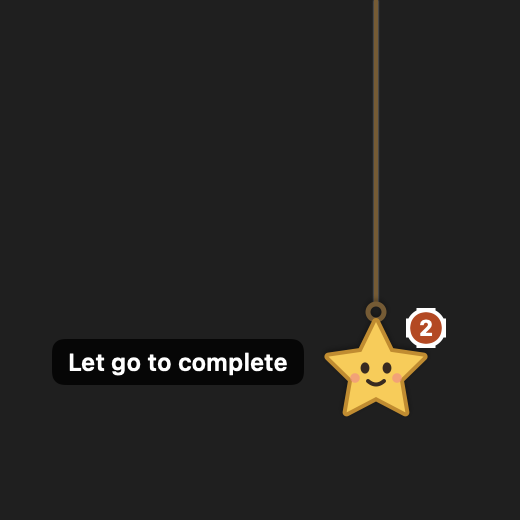
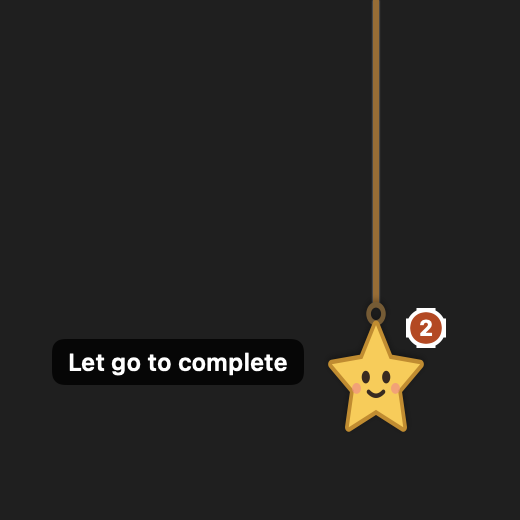
Dramatic pull: resisting rope, strain and tremble, snap-back and anime flash
The rope resists the pull (character stretches, rope thickens, trembles
past the complete point), snaps back past rest on release, and a
successful pull fires a gold (complete) or blue (snooze) flash burst.
Thresholds unchanged; off with Keep still / Reduce motion.

Changed region(s): [[0.6154, 0.0, 0.8308, 0.8308]]

diff --git a/Sources/App/PipView.swift b/Sources/App/PipView.swift
@@ -23,6 +23,8 @@ final class PipUI: ObservableObject {
     @Published var armed: PullAction?
     /// True while an attention animation plays (the window makes room for it).
     @Published var swinging = false
+    /// True briefly after a release, while the rope snaps back and the flash plays.
+    @Published var settling = false
 }
 
 struct PipView: View {
@@ -32,6 +34,9 @@ struct PipView: View {
     @State private var pinned: UUID?
     @State private var drop: CGFloat = 0
     @State private var scale: CGFloat = 1
+    @State private var jitter: CGFloat = 0
+    @State private var flash: (complete: Bool, progress: Double)?
+    @State private var flashLit = false
     @State private var startY: CGFloat = 0
     /// Resets on end *and* on cancel (onEnded isn't called when macOS cancels a drag).
     @GestureState private var pressing = false
@@ -39,6 +44,8 @@ struct PipView: View {
     private var settings: Settings { model.reminders.settings }
     private var current: Reminder? { model.current }
     private var alignment: HorizontalAlignment { settings.side == .right ? .trailing : .leading }
+    /// 0 (slack) … 1 (as taut as it gets).
+    private var tension: Double { Double(ui.stretch) / maxStretch }
     private var reduceMotion: Bool { settings.pauseAnimation || NSWorkspace.shared.accessibilityDisplayShouldReduceMotion }
 
     var body: some View {
@@ -58,10 +65,21 @@ struct PipView: View {
 
     private var hanging: some View {
         VStack(spacing: -3) {
-            Rectangle().fill(Color(red: 0.48, green: 0.35, blue: 0.18)).frame(width: 2, height: PipLayout.rope + ui.stretch + drop)
+            Rectangle().fill(tension > 0.5 ? Color(red: 0.62, green: 0.42, blue: 0.16) : Color(red: 0.48, green: 0.35, blue: 0.18))
+                .frame(width: 2 + 2 * tension, height: PipLayout.rope + ui.stretch + drop)
                 .shadow(color: .white.opacity(0.6), radius: 0.5)
             AvatarView(avatar: Avatar.find(settings.avatar)).frame(width: PipLayout.pip, height: PipLayout.pip)
                 .scaleEffect(scale, anchor: .top)
+                // Strain: stretched tall and thin by the pull, trembling once it's ready to complete.
+                .scaleEffect(x: 1 - 0.1 * tension, y: 1 + 0.18 * tension, anchor: .top)
+                .offset(x: jitter)
+                .brightness(flashLit ? 0.55 : 0)
+                .overlay {
+                    if let flash {
+                        FlashBurst(progress: flash.progress, complete: flash.complete)
+                            .frame(width: PipLayout.pip + 2 * PipLayout.swingRoom - 4, height: PipLayout.pip + 2 * PipLayout.swingRoom - 4)
+                    }
+                }
                 // Overlays don't change layout, so Pip never shifts while the label shows.
                 .overlay(alignment: .topTrailing) {
                     if !model.due.isEmpty {
@@ -108,20 +126,51 @@ struct PipView: View {
                 let dy = Double(startY - NSEvent.mouseLocation.y) // screen y grows upward
                 ui.stretch = CGFloat(visualStretch(dy))
                 ui.armed = classifyPull(dy)
+                jitter = ui.armed == .complete && !reduceMotion ? CGFloat.random(in: -2.5...2.5) : 0
             }
             .onEnded { _ in
                 let dy = Double(startY - NSEvent.mouseLocation.y)
-                defer { cancelDrag() }
+                defer { cancelDrag(snap: true) }
                 guard ui.dragging, let id = pinned, id == current?.id, let action = classifyPull(dy) else { return }
-                _ = action == .complete ? model.complete(id) : model.snooze(id)
+                let failed = (action == .complete ? model.complete(id) : model.snooze(id)) != nil
+                if !failed { burst(complete: action == .complete) } // only celebrate what was actually saved
             }
     }
 
-    private func cancelDrag() {
-        withAnimation(reduceMotion ? nil : .spring(response: 0.3, dampingFraction: 0.6)) { ui.stretch = 0 }
+    /// `snap`: a released rope whips back past its rest point and wobbles (a cancel just eases back).
+    private func cancelDrag(snap: Bool = false) {
+        let wasStretched = ui.stretch > 0
+        if snap && wasStretched && !reduceMotion { settle(for: 0.8) }
+        withAnimation(reduceMotion ? nil : snap ? .spring(response: 0.32, dampingFraction: 0.42) : .spring(response: 0.3, dampingFraction: 0.7)) {
+            ui.stretch = 0
+        }
         ui.dragging = false
         ui.armed = nil
         pinned = nil
+        jitter = 0
+    }
+
+    /// Keeps the window large while the snap-back and flash play, so nothing is clipped.
+    private func settle(for seconds: Double) {
+        ui.settling = true
+        Task { @MainActor in
+            try? await Task.sleep(nanoseconds: UInt64(seconds * 1_000_000_000))
+            ui.settling = false
+        }
+    }
+
+    /// The anime "flash" on a successful pull: the character lights up and a burst shoots out.
+    private func burst(complete: Bool) {
+        guard !reduceMotion else { return }
+        settle(for: 0.8)
+        flash = (complete, 0)
+        flashLit = true
+        withAnimation(.easeOut(duration: 0.12)) { flashLit = false }
+        withAnimation(.easeOut(duration: complete ? 0.55 : 0.4)) { flash = (complete, 1) }
+        Task { @MainActor in
+            try? await Task.sleep(nanoseconds: 600_000_000)
+            flash = nil
+        }
     }
 
     /// Grabs attention when a reminder becomes due: a drop-and-bounce, a big swing, then a short

diff --git a/Sources/App/Effects.swift b/Sources/App/Effects.swift
@@ -1,0 +1,51 @@
+import SwiftUI
+
+/// Anime-style impact flash: a bright core, a shock ring and speed lines bursting outward.
+/// `progress` runs 0 → 1; gold for complete, sky blue for snooze.
+struct FlashBurst: View, Animatable {
+    var progress: Double
+    let complete: Bool
+
+    var animatableData: Double {
+        get { progress }
+        set { progress = newValue }
+    }
+
+    var body: some View {
+        Canvas { ctx, size in draw(&ctx, size) }
+            .allowsHitTesting(false)
+            .accessibilityHidden(true)
+    }
+
+    private func draw(_ ctx: inout GraphicsContext, _ size: CGSize) {
+        let c = CGPoint(x: size.width / 2, y: size.height / 2)
+        let p = progress
+        let fade = max(0, 1 - p)
+        let tint = complete ? Color(red: 1, green: 0.82, blue: 0.2) : Color(red: 0.35, green: 0.75, blue: 1)
+        let reach = min(size.width, size.height) / 2
+
+        // White-hot core that blooms then fades fast.
+        let core: CGFloat = reach * CGFloat(0.25 + 0.55 * p)
+        let glow = Gradient(colors: [Color.white.opacity(fade), tint.opacity(0.7 * fade), Color.clear])
+        let coreRect = CGRect(x: c.x - core, y: c.y - core, width: core * 2, height: core * 2)
+        ctx.fill(Path(ellipseIn: coreRect), with: .radialGradient(glow, center: c, startRadius: 0, endRadius: core))
+        // Shock ring.
+        let ring: CGFloat = reach * CGFloat(0.3 + 0.7 * p)
+        let ringRect = CGRect(x: c.x - ring, y: c.y - ring, width: ring * 2, height: ring * 2)
+        ctx.stroke(Path(ellipseIn: ringRect), with: .color(tint.opacity(0.9 * fade)), lineWidth: CGFloat(4 * fade + 1))
+        // Speed lines, alternating long and short, shooting outward.
+        let count = complete ? 16 : 10
+        for i in 0..<count {
+            let a = CGFloat(Double(i) / Double(count) * 2 * .pi + 0.2)
+            let long = i.isMultiple(of: 2)
+            let inner: CGFloat = reach * CGFloat(0.35 + 0.55 * p)
+            let length: CGFloat = reach * (long ? 0.5 : 0.3) * CGFloat(1 - p * 0.5)
+            let outer: CGFloat = min(inner + length, reach)
+            var line = Path()
+            line.move(to: CGPoint(x: c.x + cos(a) * inner, y: c.y + sin(a) * inner))
+            line.addLine(to: CGPoint(x: c.x + cos(a) * outer, y: c.y + sin(a) * outer))
+            let color: Color = long ? .white : tint
+            ctx.stroke(line, with: .color(color.opacity(fade)), style: StrokeStyle(lineWidth: long ? 3 : 2, lineCap: .round))
+        }
+    }
+}

diff --git a/Sources/App/PipWindow.swift b/Sources/App/PipWindow.swift
@@ -38,9 +38,9 @@ final class PipWindowController {
         let visible = model.hasAnything || model.status != nil || model.problem != nil
         guard visible, let screen = NSScreen.screens.first else { panel.orderOut(nil); return }
         let panelShown = (model.current != nil && !ui.collapsed) || model.status != nil || model.problem != nil
-        let width = panelShown || ui.dragging ? PipLayout.panelWidth : PipLayout.pip + 2 * PipLayout.swingRoom // room for the "Let go to…" label and swings
+        let width = panelShown || ui.dragging || ui.settling ? PipLayout.panelWidth : PipLayout.pip + 2 * PipLayout.swingRoom // room for the "Let go to…" label and swings
         // While dragging, reserve the full stretch so the window doesn't resize under the pointer.
-        let stretch = ui.dragging ? CGFloat(maxStretch) : ui.stretch
+        let stretch = ui.dragging || ui.settling ? CGFloat(maxStretch) : ui.stretch
         let height = PipLayout.rope + stretch + PipLayout.pip + (panelShown ? PipLayout.panelHeight : 0) + 24 + (ui.swinging ? PipLayout.bounce + 16 : 0)
         let area = screen.visibleFrame // just below the menu bar
         let x = model.reminders.settings.side == .right ? area.maxX - width - PipLayout.margin : area.minX + PipLayout.margin

diff --git a/Sources/Core/Reminders.swift b/Sources/Core/Reminders.swift
@@ -6,7 +6,7 @@ import Foundation
 public let snoozeThreshold: Double = 24
 /// Downward drag needed to complete on release.
 public let completeThreshold: Double = 120
-/// The rope stretches visually up to here; classification uses the real distance.
+/// The rope can stretch visually up to here; classification uses the real distance.
 public let maxStretch: Double = 180
 
 public enum PullAction: Equatable { case snooze, complete }
@@ -18,7 +18,12 @@ public func classifyPull(_ dy: Double) -> PullAction? {
     return nil
 }
 
-public func visualStretch(_ dy: Double) -> Double { min(maxStretch, max(0, dy.isNaN ? 0 : dy)) }
+/// How far the rope visibly stretches for a pull of `dy`: it resists more the further you pull,
+/// so the character lags behind the pointer like a taut spring (never reaching `maxStretch`).
+public func visualStretch(_ dy: Double) -> Double {
+    guard dy > 0 else { return 0 } // also NaN
+    return maxStretch * (1 - exp(-dy / 150))
+}
 
 // MARK: - Model
 

diff --git a/Sources/App/Snapshots.swift b/Sources/App/Snapshots.swift
@@ -50,6 +50,16 @@ enum Snapshots {
                 }
             }
             render(lineup, "lineup", CGSize(width: 600, height: 130), dark: dark)
+            let flashes = HStack(spacing: 24) {
+                ForEach([true, false], id: \.self) { complete in
+                    ZStack {
+                        AvatarView(avatar: Avatar.find(complete ? "pip" : "cat")).frame(width: 64, height: 64).brightness(0.25)
+                        FlashBurst(progress: 0.3, complete: complete).frame(width: 140, height: 140)
+                    }
+                    .frame(width: 140, height: 140)
+                }
+            }
+            render(flashes, "flash", CGSize(width: 330, height: 150), dark: dark)
         }
         try? FileManager.default.removeItem(at: file.url)
     }

diff --git a/Checks/main.swift b/Checks/main.swift
@@ -20,7 +20,9 @@ check(classifyPull(119.9) == .snooze, "119.9 snoozes")
 check(classifyPull(120) == .complete, "120 completes")
 check(classifyPull(-40) == nil, "upward drag cancels")
 check(classifyPull(.nan) == nil, "NaN cancels")
-check(visualStretch(500) == maxStretch && visualStretch(-5) == 0, "stretch clamps")
+check(visualStretch(-5) == 0 && visualStretch(.nan) == 0 && visualStretch(0) == 0, "no stretch for upward/none")
+check(visualStretch(500) < maxStretch && visualStretch(10_000) <= maxStretch, "stretch never exceeds the maximum")
+check(visualStretch(60) < visualStretch(120) && visualStretch(120) < 120, "rope resists: grows, but less than the pointer")
 
 // Creation validation
 var r = Reminders()

diff --git a/docs/ACCEPTANCE.md b/docs/ACCEPTANCE.md
@@ -29,7 +29,9 @@ Recorded 6 November 2026 on macOS 15.7.9 (Apple silicon), Swift 6.2.4 (Command L
 | 0.3.0: due animation makes room (window 280 → 326 pt during the swing) and settles back | Pass | Window sampled during and after the swing |
 | 0.3.0: repeat shake while due | Pass | Window grew at about 47 s after launch and settled 1 s later |
 | 0.3.0: pull still works at the new position (130 pt → completed) | Pass | Posted pointer events |
-| Rendered views (light and dark): due card, pulling labels, menu, characters | Pass | `docs/screenshots/` from `Tuglet --snapshots` |
+| 0.3.0: rope resistance curve (grows, always less than the pointer, never past the maximum) | Pass | Self-checks |
+| 0.3.0: release with flash: 140 pt completed, 50 pt snoozed, 15 pt cancelled; window kept room during the snap-back (460 pt) and settled to 280 pt | Pass | Posted pointer events, fox character |
+| Rendered views (light and dark): due card, strained pull, flash burst, menu, characters | Pass | `docs/screenshots/` from `Tuglet --snapshots` |
 
 Found by a teammate after 0.2.0 shipped and fixed in 0.2.1: double-clicking appeared to do nothing (menu bar icon hidden behind the notch, no window). Bugs found and fixed during these checks: the "Let go to…" label shifted Pip and was clipped in the narrow idle window; card buttons were truncated; pulls were mismeasured when the window resized; a cancelled drag could leave Pip stuck in dragging mode.
 
@@ -40,7 +42,7 @@ Run on at least one other Mac, ideally an Intel Mac and macOS 13 or 14, using th
 1. **First open:** download from Releases, move to Applications, double-click → blocked → System Settings → Privacy & Security → **Open Anyway** works as INSTALL.md describes. On macOS 13/14, right-click → Open.
 2. **Menu bar:** the ☆ appears; it shows ★ and a number when due; the menu opens and every section works (add, shortcuts, demo, delete with confirm, settings).
 3. **Pip over everything:** visible above a full-screen app, on every Space, and over Slack, a browser and an editor. Clicks beside Pip reach the app underneath.
-4. **Animation:** drop, bounce and swing on a new due reminder; a short shake every 45 s while due; none with "Keep the character still" or macOS Reduce motion; no shake mid-pull. Try every character on light and dark wallpapers.
+4. **Animation:** drop, bounce and swing on a new due reminder; a short shake every 45 s while due; none with "Keep the character still" or macOS Reduce motion; no shake mid-pull. Pull feels resistant, trembles past the complete point, snaps back with a gold or blue flash; no flash on cancel. Try every character on light and dark wallpapers.
 5. **Buttons:** Snooze, Complete, Hide (card folds, reminder stays due, clicking Pip reopens it), Undo within 10 s, and Undo from the menu.
 6. **Sleep:** reminder due during sleep → due on wake. Quit Tuglet past a due time → due on next launch.
 7. **Open at login:** turn it on, log out and in, and Tuglet starts. If macOS refuses, the message points to Login Items.

diff --git a/docs/DEVELOPMENT.md b/docs/DEVELOPMENT.md
@@ -36,7 +36,7 @@ The version lives in `Resources/Info.plist` (`CFBundleShortVersionString`) and m
 ## Code map
 
 ```
-Sources/Core/Reminders.swift   Pure logic, no UI: pull thresholds (24 / 120 / 180 pt), reminder
+Sources/Core/Reminders.swift   Pure logic, no UI: pull thresholds (24 / 120 pt), rope resistance curve, reminder
                                transitions, ordering, undo, history cap, and the JSON file it saves to.
 Sources/App/Model.swift        Owns state on the main thread. Every change is saved first and only
                                then shown. Sleeps until the next due time; catches up on wake,
@@ -47,6 +47,7 @@ Sources/App/PipView.swift      Rope, character, due badge, pull gesture, attenti
                                45-second shake) and the card.
 Sources/App/Avatars.swift      Character list (Pip + emoji animals/computer), how each is drawn, and the picker.
 Sources/App/PipArt.swift       Pip's own drawing.
+Sources/App/Effects.swift      The anime-style release flash.
 Sources/App/MenuView.swift     Menu bar window: due, add, coming up, settings, help.
 Sources/App/Snapshots.swift    Renders the README images.
 Checks/main.swift              Self-checks for Sources/Core.

diff --git a/CHANGELOG.md b/CHANGELOG.md
@@ -11,6 +11,9 @@ First version of **characters**.
 
 ### Changed
 - **Livelier attention animation.** When a reminder becomes due, the character drops on its rope and bounces back, then swings hard with a quick "pop". While the reminder stays due, it gives a short shake every 45 seconds until you snooze or complete it. "Keep the character still" and macOS Reduce motion turn all movement off.
+- **More dramatic pull.** The rope resists: the further you pull, the harder it gets, the rope thickens, and the character stretches tall and thin. Past the "complete" point it trembles. Let go and it **snaps back** past its resting point and wobbles.
+- **Anime-style flash** on a successful pull: the character lights up and a burst of speed lines and a shock ring shoots out (gold for complete, blue for snooze). No flash when a pull is cancelled or a save fails, or with "Keep the character still" or Reduce motion.
+- The snooze and complete distances are unchanged (24 pt and 120 pt of pointer movement); only the visuals changed.
 - The character sits a little further from the screen edge so its swing isn't cut off.
 
 ### Compatibility

diff --git a/README.md b/README.md
@@ -4,8 +4,10 @@ A little Mac app for personal reminders. **Pip**, a friendly star on a string (o
 
 ![Pip, a cat, a fox, a robot, a space invader, a laptop and a coffee cup hanging on ropes](docs/screenshots/lineup-light.png)
 
+![The release flash: a gold burst for complete and a blue one for snooze](docs/screenshots/flash-dark.png)
+
 - **Pull Pip a little** and let go: **snooze** (5 minutes by default).
-- **Pull Pip all the way down** and let go: **complete**. Undo is available for 10 seconds.
+- **Pull Pip all the way down** (the rope fights back, and Pip trembles when you're there) and let go: **complete**, with an anime-style flash. Undo is available for 10 seconds.
 - Prefer clicking? **Snooze** and **Complete** buttons sit right under Pip and in the menu bar.
 
 Reminders stay on your Mac. No account, no internet connection, no tracking.

diff --git a/docs/INSTALL.md b/docs/INSTALL.md
@@ -108,6 +108,8 @@ The change is instant. Everything works the same whichever character you pick; t
 
 While you pull, a label next to Pip says **"Let go to snooze"** or **"Let go to complete"**, so you always know what will happen before you let go.
 
+**What it feels like:** the rope fights back. The further you pull, the tighter it gets, and Pip stretches out. When Pip starts to **tremble**, you've pulled far enough to complete. Let go and Pip **snaps back up** with a **flash**: gold for done, blue for snoozed. Changed your mind? Move back up before letting go; there's no flash and nothing changes.
+
 ### Or just click
 
 Prefer not to drag? Use the buttons on the card under Pip, or in the Tuglet menu:
